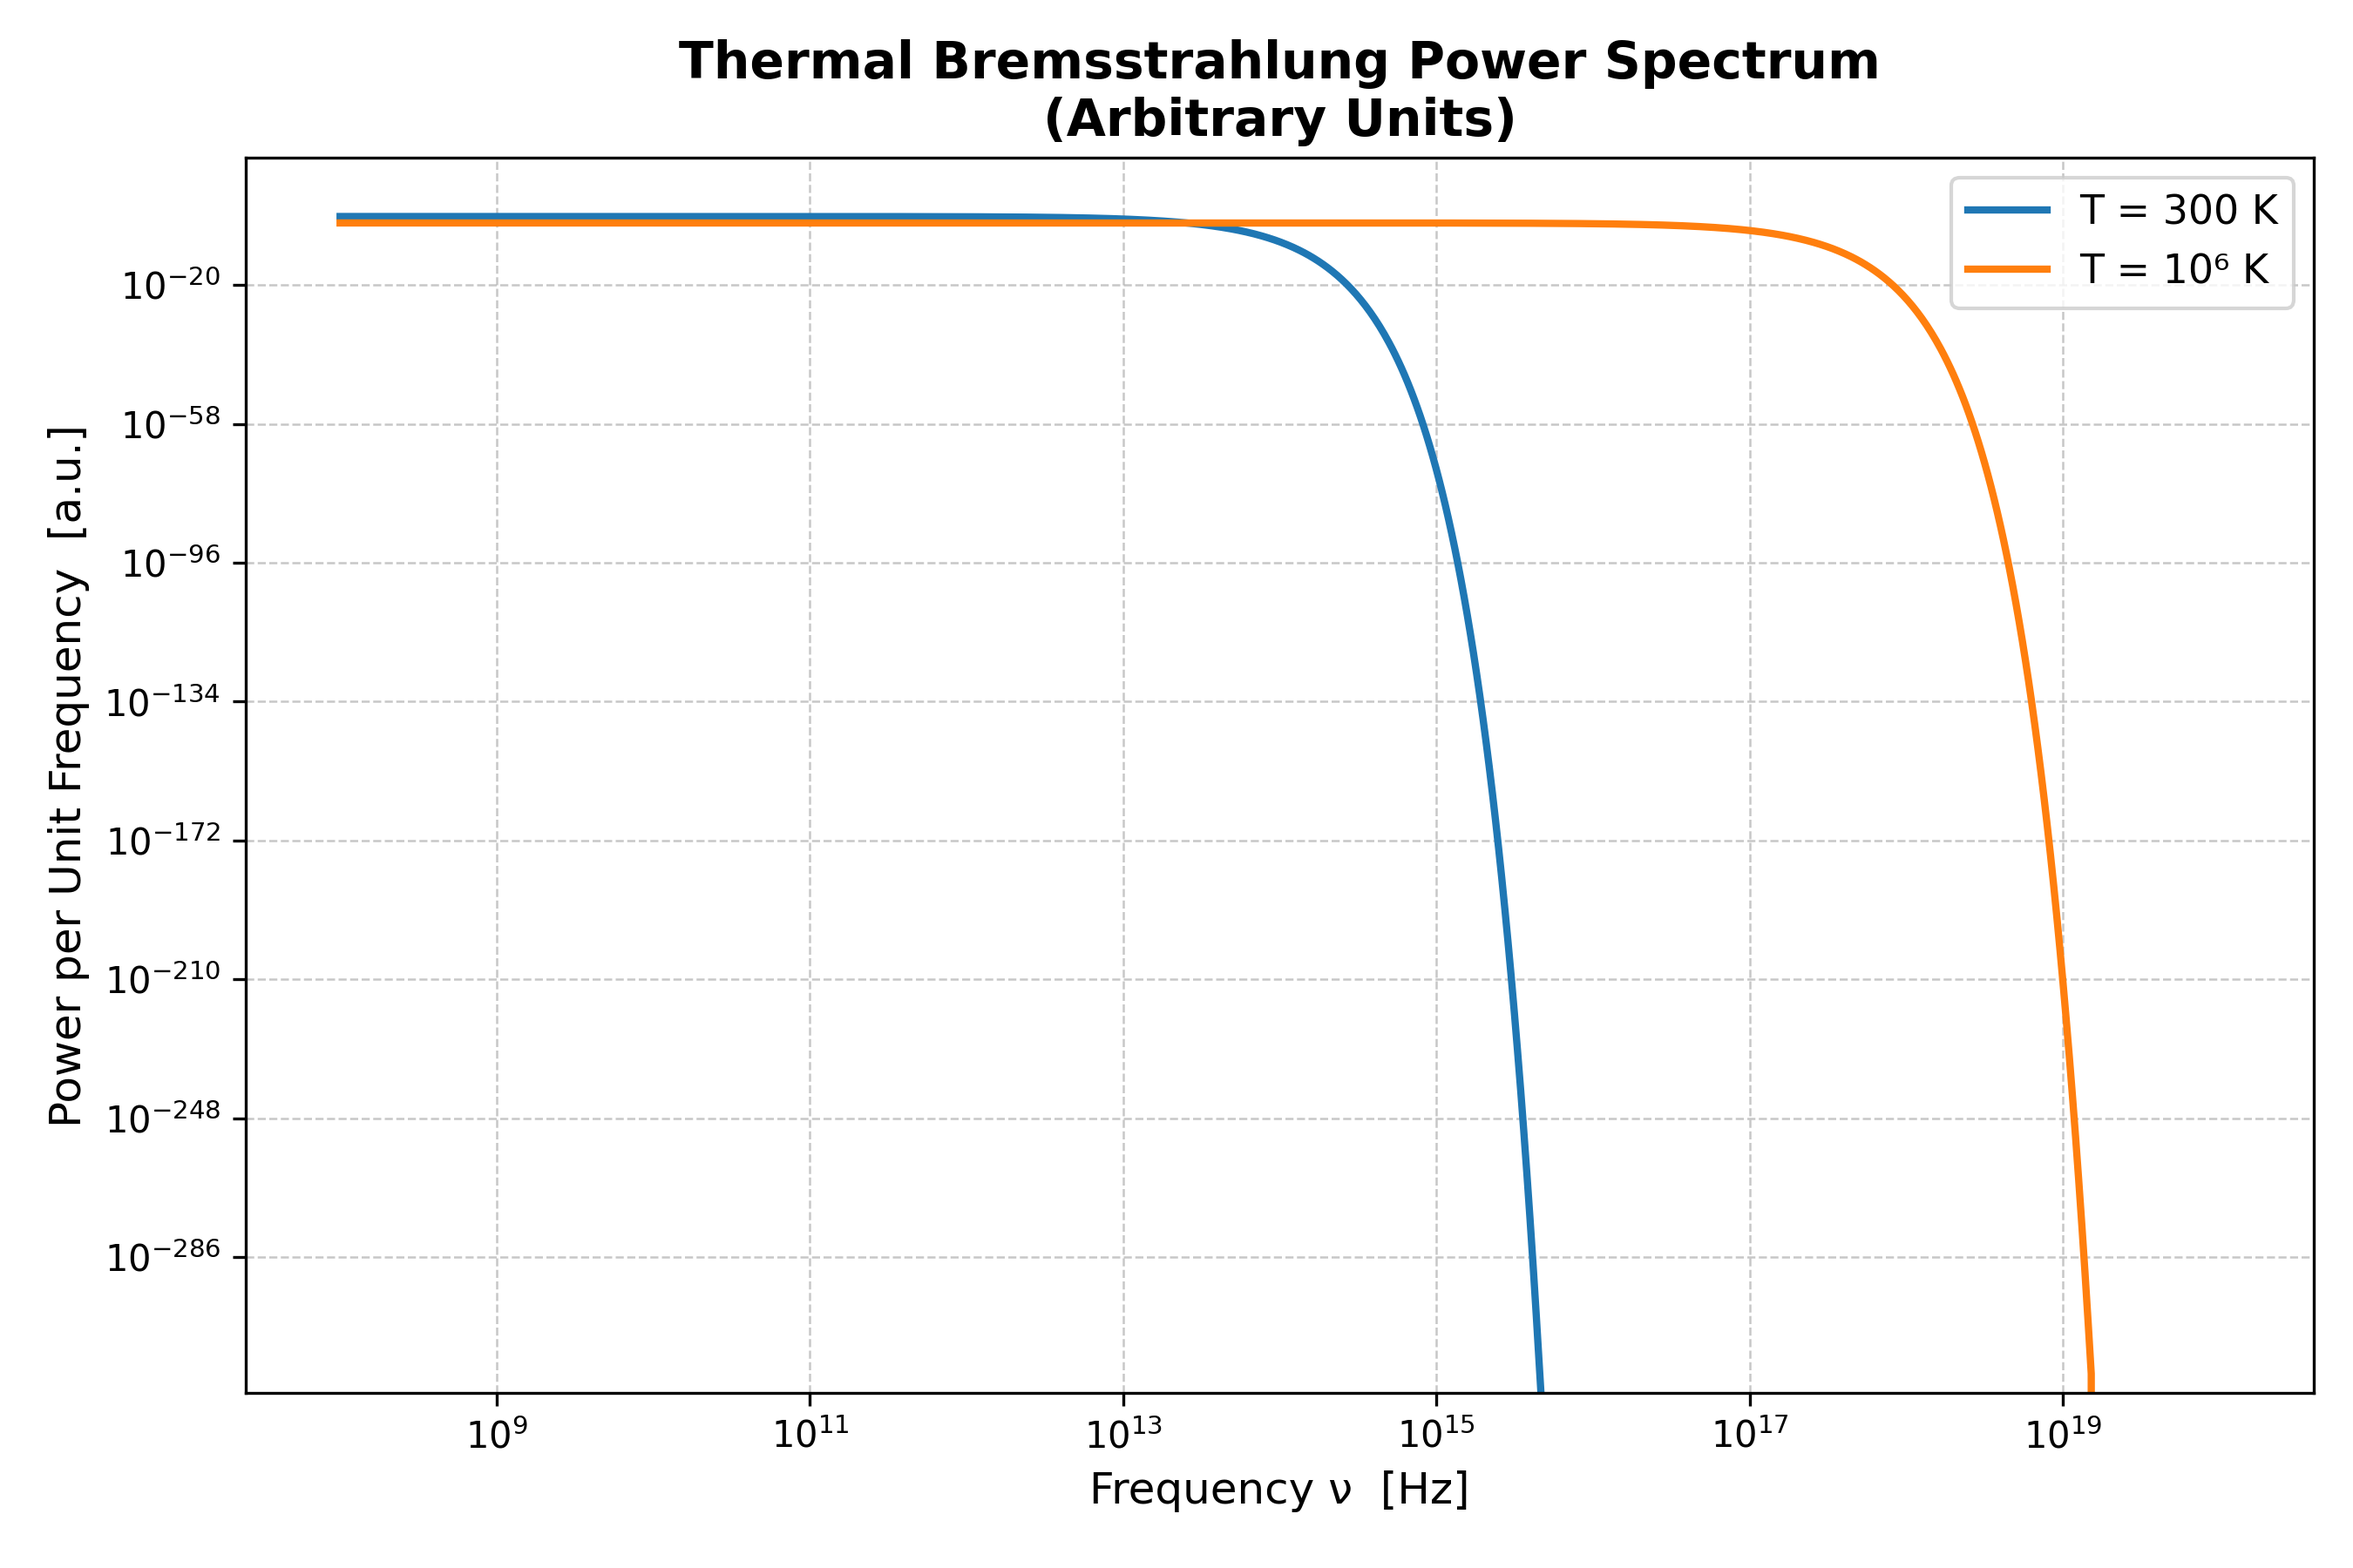
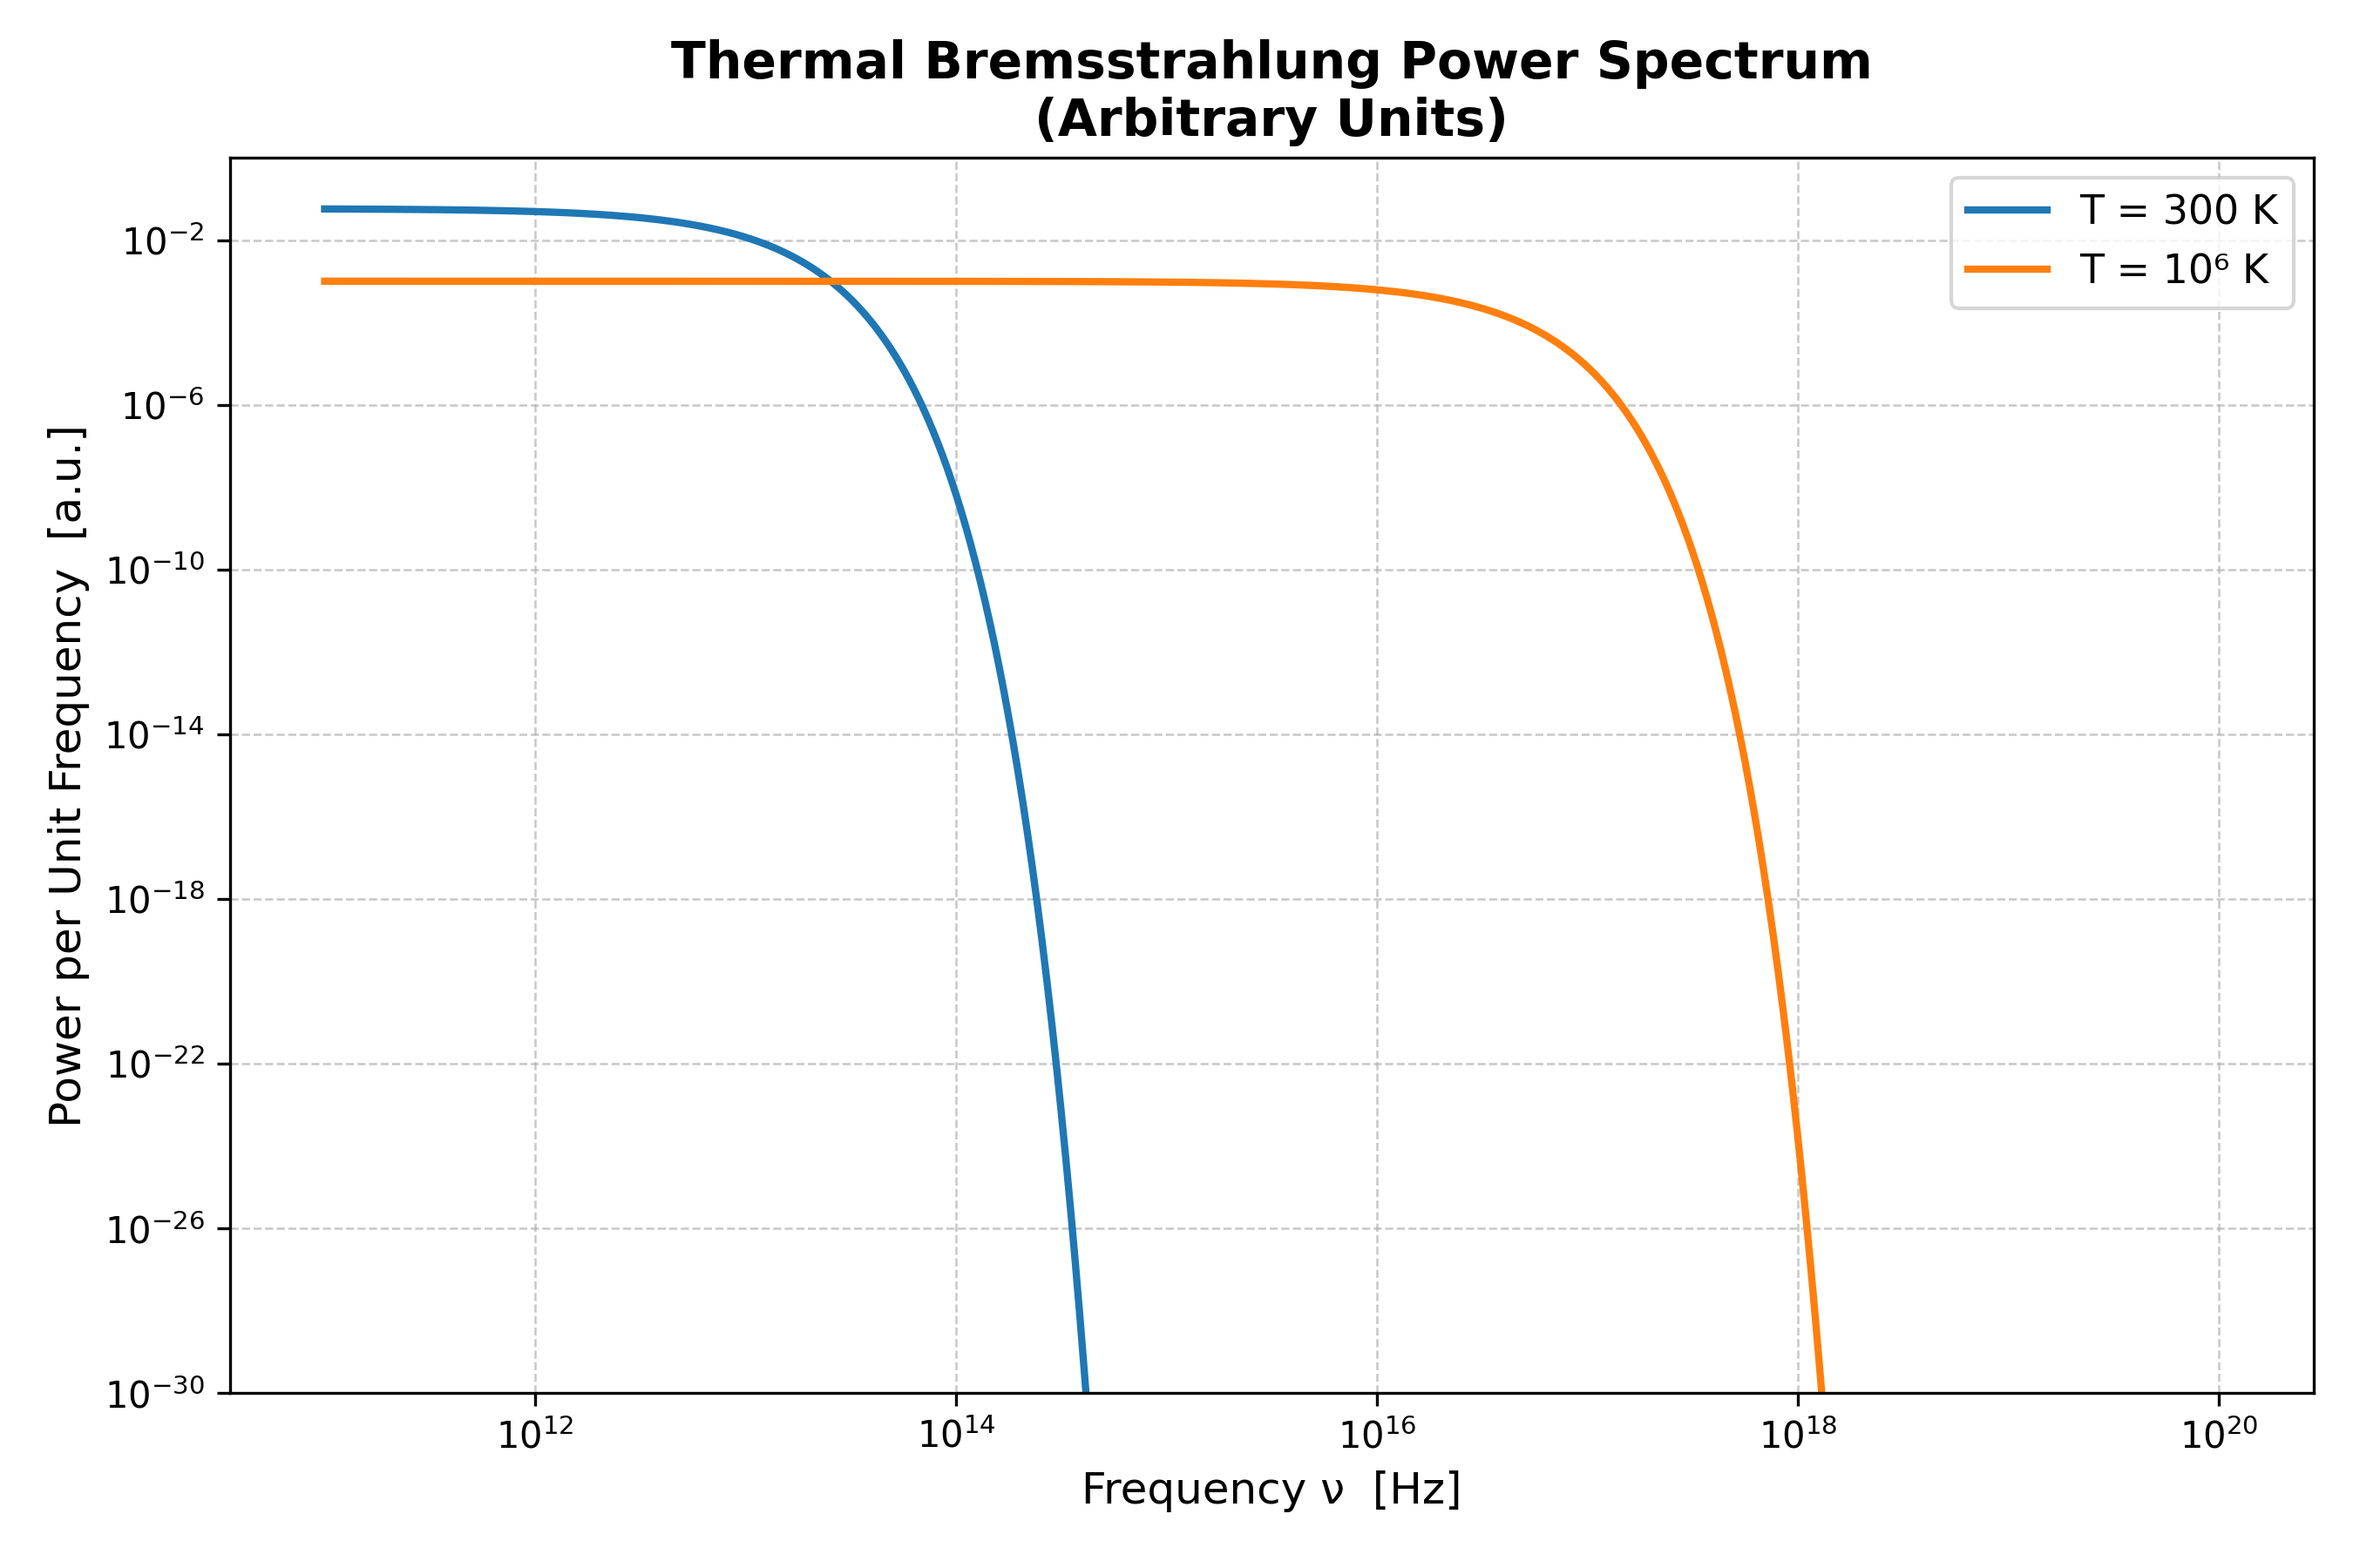
Question_6 for Assignment_2

diff --git a/Assignment_2/Question_6/src/Power_frequency_distribution.py b/Assignment_2/Question_6/src/Power_frequency_distribution.py
@@ -9,7 +9,7 @@ def bremsstrahlung_power(nu, T, prefactor=1.0):
 
 
 # Frequency Range
-nu = np.logspace(8, 20, 1200)          
+nu = np.logspace(11, 20, 1200)          
 
 # Temperatures
 T1 = 300
@@ -25,7 +25,7 @@ plt.loglog(nu, P2, linewidth=2.0, label="T = 10⁶ K")
 plt.title("Thermal Bremsstrahlung Power Spectrum\n(Arbitrary Units)", fontsize=14, fontweight="bold")
 plt.xlabel("Frequency ν  [Hz]", fontsize=12)
 plt.ylabel("Power per Unit Frequency  [a.u.]", fontsize=12)
-
+plt.ylim(10**(-30),1)
 plt.grid(which="both", linestyle="--", linewidth=0.6, alpha=0.7)
 plt.legend(fontsize=11, loc="upper right")
 plt.tight_layout()
